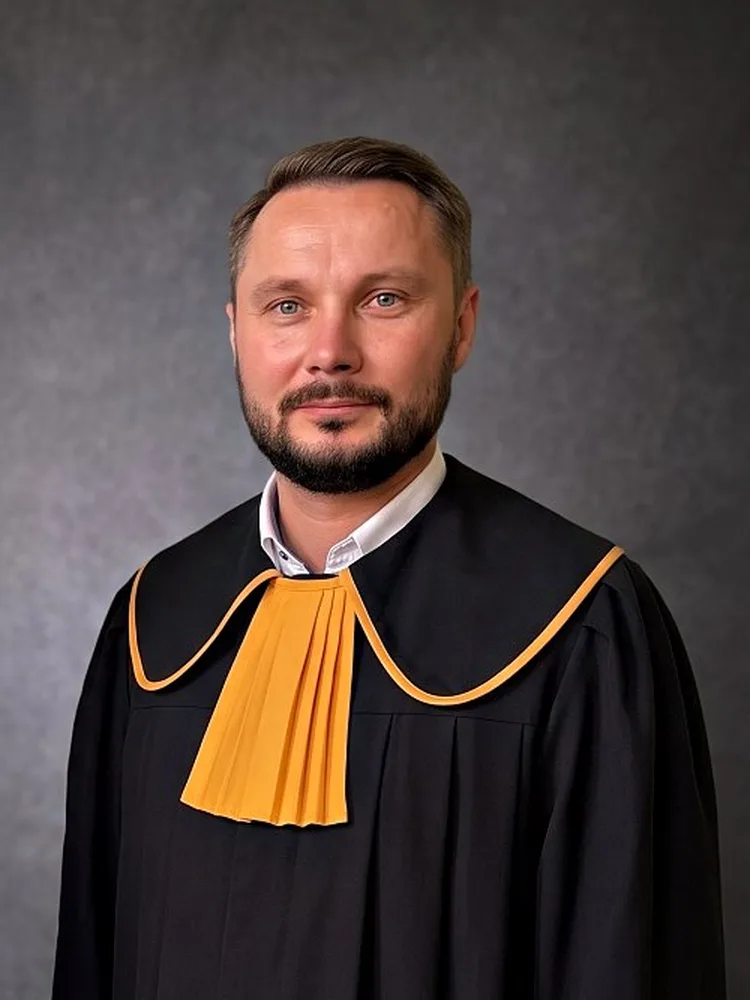
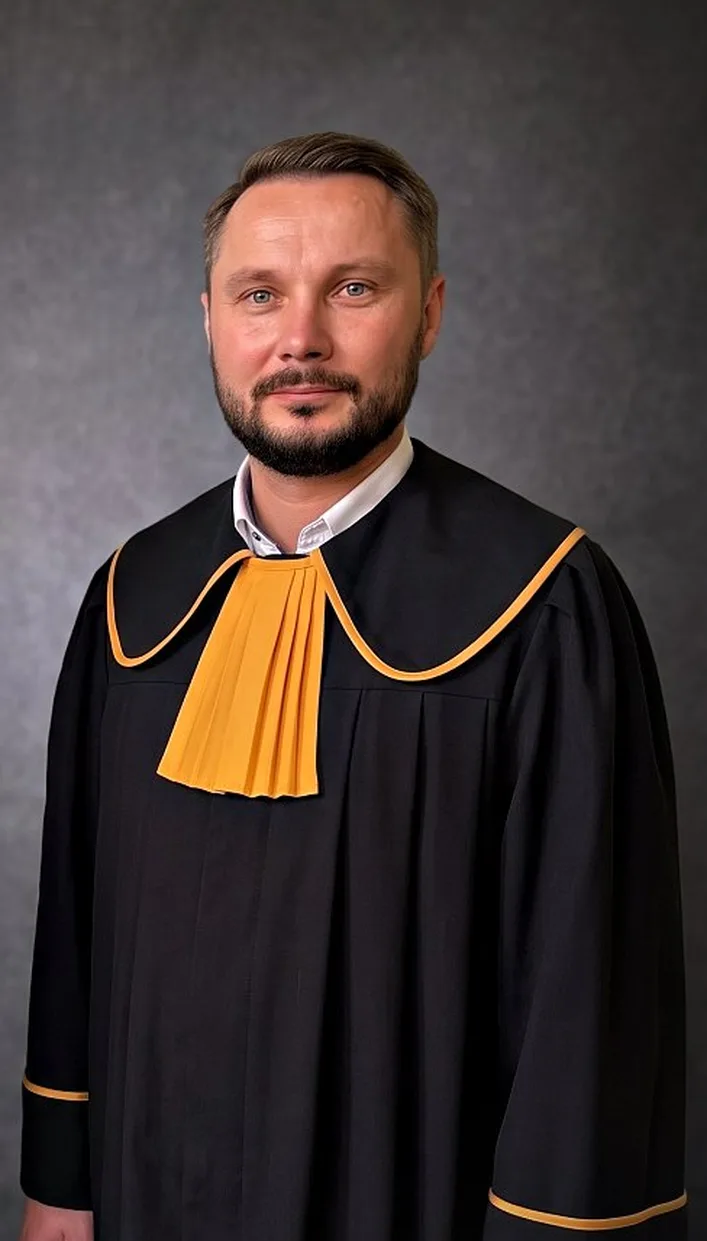
Zespół: pełniejszy kadr zdjęć doradców
Claude-Session: https://claude.ai/code/session_01P3FunjzXZg2xqPaovLAGa3

diff --git a/index.html b/index.html
@@ -854,7 +854,7 @@ a.spec h3{color:var(--bg)}
 
   <section id="zespol" class="wrap team">
     <div class="team-card">
-      <picture><source srcset="/img/michal-zespol.webp" type="image/webp"><img class="team-photo" src="/img/michal-zespol.jpg" alt="Michał Ruszniak, doradca podatkowy, prezes zarządu RKDP, Wrocław" width="750" height="1000" loading="lazy"></picture>
+      <picture><source srcset="/img/michal-zespol.webp" type="image/webp"><img class="team-photo" src="/img/michal-zespol.jpg" alt="Michał Ruszniak, doradca podatkowy, prezes zarządu RKDP, Wrocław" width="787" height="1381" loading="lazy"></picture>
       <div class="team-body">
         <span class="advisor-role">Doradca Podatkowy · Prezes Zarządu</span>
         <h3 class="team-name">Michał Ruszniak</h3>
@@ -871,7 +871,7 @@ a.spec h3{color:var(--bg)}
       </div>
     </div>
     <div class="team-card team-card-rev">
-      <picture><source srcset="/img/marcin-zespol.webp" type="image/webp"><img class="team-photo" src="/img/marcin-zespol.jpg" alt="Marcin Otręba, doradca podatkowy, Wrocław" width="750" height="1000" loading="lazy"></picture>
+      <picture><source srcset="/img/marcin-zespol.webp" type="image/webp"><img class="team-photo" src="/img/marcin-zespol.jpg" alt="Marcin Otręba, doradca podatkowy, Wrocław" width="707" height="1241" loading="lazy"></picture>
       <div class="team-body">
         <span class="advisor-role">Doradca Podatkowy · Partner Zarządzający</span>
         <h3 class="team-name">Marcin Otręba</h3>

diff --git a/zespol/index.html b/zespol/index.html
@@ -51,7 +51,7 @@
 </div></section>
 <section class="wrap team" aria-label="Doradcy podatkowi">
     <div class="team-card">
-      <picture><source srcset="/img/michal-zespol.webp" type="image/webp"><img class="team-photo" src="/img/michal-zespol.jpg" alt="Michał Ruszniak, doradca podatkowy, prezes zarządu RKDP, Wrocław" width="750" height="1000" loading="lazy"></picture>
+      <picture><source srcset="/img/michal-zespol.webp" type="image/webp"><img class="team-photo" src="/img/michal-zespol.jpg" alt="Michał Ruszniak, doradca podatkowy, prezes zarządu RKDP, Wrocław" width="787" height="1381" loading="lazy"></picture>
       <div class="team-body">
         <span class="advisor-role">Doradca Podatkowy · Prezes Zarządu</span>
         <h3 class="team-name">Michał Ruszniak</h3>
@@ -68,7 +68,7 @@
       </div>
     </div>
     <div class="team-card team-card-rev">
-      <picture><source srcset="/img/marcin-zespol.webp" type="image/webp"><img class="team-photo" src="/img/marcin-zespol.jpg" alt="Marcin Otręba, doradca podatkowy, Wrocław" width="750" height="1000" loading="lazy"></picture>
+      <picture><source srcset="/img/marcin-zespol.webp" type="image/webp"><img class="team-photo" src="/img/marcin-zespol.jpg" alt="Marcin Otręba, doradca podatkowy, Wrocław" width="707" height="1241" loading="lazy"></picture>
       <div class="team-body">
         <span class="advisor-role">Doradca Podatkowy · Partner Zarządzający</span>
         <h3 class="team-name">Marcin Otręba</h3>
